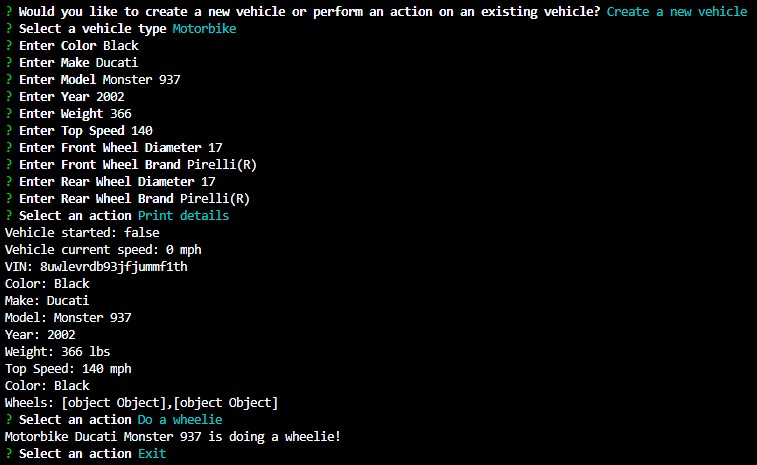
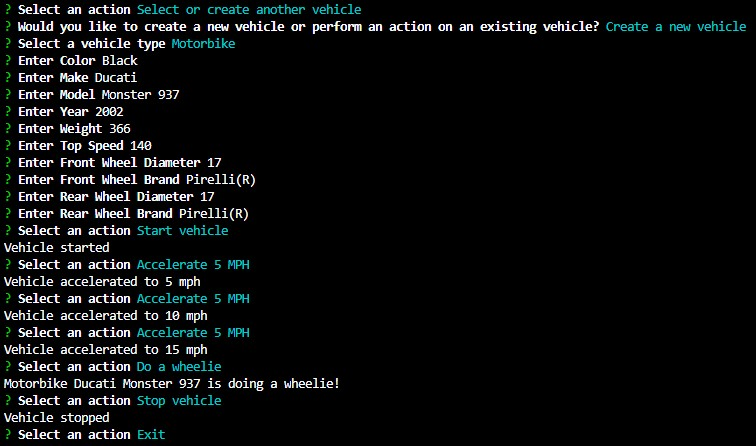
Updated README, screenshots, and bugfix on Motorbike.ts

Changed region(s): [[0.0, 0.0, 1.0, 0.991]]

diff --git a/src/classes/Motorbike.ts b/src/classes/Motorbike.ts
@@ -77,7 +77,7 @@ class Motorbike extends Vehicle {
     console.log(`Weight: ${this.weight} lbs`);
     console.log(`Top Speed: ${this.topSpeed} mph`);
     console.log(`Color: ${this.color}`);
-    console.log(`Wheels: ${this.wheels}`);
+    console.log(`Wheels: ${this.wheels.map(wheel => wheel.toString()).join(', ')}`);
   }
 }
 

diff --git a/README.md b/README.md
@@ -3,7 +3,7 @@
   [![License: MIT](https://img.shields.io/badge/License-MIT-yellow.svg)](https://opensource.org/licenses/MIT)
 
   ## Description
-  This is a CLA that allows the user to build or select a vehicle, then conduct actions with that vehicle until the user exits the program. See the "[Usage](#usage)" section for more information!
+  This is a CLA that allows the user to build or select a vehicle, then conduct actions with that vehicle until the user exits the program. See the "[Usage](#usage)" section for more information.
 
 
 
@@ -23,16 +23,14 @@
   ## Usage
   [VIDEO TUTORIAL]()
 
-  Use the application's prompts to:
-  a.) Create a new vehicle (a car, truck, and/or motorbike)
-  b.) Select from a list of existing and created vehicles
-  c.) Conduct actions such as accelerating/decelerating, turning, towing, or popping a wheelie!
-
-  ![Create a vehicle](./screenshots/Create%20a%20Vehicle.jpg)
-
-  ![Select the existing F-150 and tow your created vehicle](./screenshots/Select%20a%20Vehicle%20and%20Tow%20a%20Created%20Vehicle.jpg)
-
-  ![Create a motorbike and pop a wheelie](./screenshots/Create%20a%20Motorcycle%20and%20Do%20a%20Wheelie.jpg)
+  **You can use the application's prompts to:**
+  *a.) Create a new car, print its details, and take it for a drive:*
+    ![Create a vehicle](./screenshots/Create%20a%20Vehicle.jpg)
+  *b.) Select a truck from the existing vehicles, use it to tow created or existing vehicles, and take them both for a jaunt:*
+    ![Select the existing F-150 and tow your created vehicle](./screenshots/Select%20a%20Vehicle%20and%20Tow%20a%20Created%20Vehicle.jpg)
+  *c.) Create the perfect motorbike, and pop a legendary wheelie as you cruise:*
+    ![Create a motorbike and pop a wheelie](./screenshots/Create%20a%20Motorcycle%20and%20Do%20a%20Wheelie.jpg)
+  
 
   ## License
   This project is licensed under the MIT license. For more details, see the license link: (https://opensource.org/licenses/MIT)
